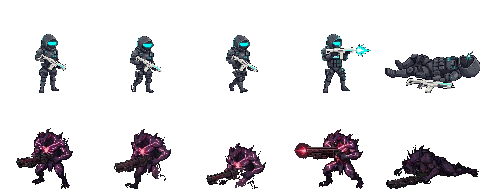
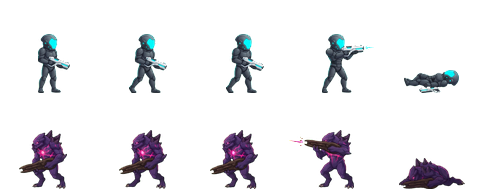
feat(ui): атлас бійців «мальований» — аркуші Gemini, конвертер із плавною альфою (Т.133, ADR-0122)
Claude-Session: https://claude.ai/code/session_01U6iHxe4kxtvZZjgkFx4ynj

diff --git a/src/render.frames.test.ts b/src/render.frames.test.ts
@@ -349,25 +349,25 @@ describe('фідбек власника 2026-10-22: якір дула — тра
   };
 
   it('демон (натив, вліво): старт — дуло фазового різака, лівий край кадру', () => {
-    expect(tracerStart('alien', 5, 3, false)).toEqual([264 - 27, 264 - 9]); // (10,54) → +7, +38
+    expect(tracerStart('alien', 5, 3, false)).toEqual([264 - 31, 264 - 16]); // (4,44) → +3, +31
   });
 
   it('демон (дзеркало, вправо): дуло віддзеркалене до правого краю (x → 96 − x)', () => {
-    expect(tracerStart('alien', 5, 7, true)).toEqual([264 + 27, 264 - 9]); // 86 → +61
+    expect(tracerStart('alien', 5, 7, true)).toEqual([264 + 31, 264 - 16]); // 92 → +65
   });
 
   it('солдат: дуло — правий край кадру fire, на рівні зброї', () => {
-    expect(tracerStart('player', 5, 7, false)).toEqual([264 + 23, 264 - 12]); // (81,50) → +57, +35
+    expect(tracerStart('player', 5, 7, false)).toEqual([264 + 24, 264 - 14]); // (82,47) → +58, +33
   });
 
   it('солдат (дзеркало, вліво): дзеркальне дуло ліворуч', () => {
-    expect(tracerStart('player', 5, 3, true)).toEqual([264 - 23, 264 - 12]); // 15 → +11
+    expect(tracerStart('player', 5, 3, true)).toEqual([264 - 24, 264 - 14]); // 14 → +10
   });
 
   it('muzzlePoint: віддача зсуває дуло назад від погляду', () => {
-    expect(muzzlePoint('player', false, 264, 264, 3)).toEqual({ x: 264 + 23 - 3, y: 264 - 12 });
-    expect(muzzlePoint('alien', false, 264, 264, 3)).toEqual({ x: 264 - 27 + 3, y: 264 - 9 });
-    expect(muzzlePoint('player', true, 264, 264, 3)).toEqual({ x: 264 - 23 + 3, y: 264 - 12 });
+    expect(muzzlePoint('player', false, 264, 264, 3)).toEqual({ x: 264 + 24 - 3, y: 264 - 14 });
+    expect(muzzlePoint('alien', false, 264, 264, 3)).toEqual({ x: 264 - 31 + 3, y: 264 - 16 });
+    expect(muzzlePoint('player', true, 264, 264, 3)).toEqual({ x: 264 - 24 + 3, y: 264 - 14 });
   });
 });
 
@@ -381,7 +381,7 @@ describe('Т.132: спалах дула, віддача, іскри', () => {
     const arcs = early.calls.filter((c) => c.m === 'arc');
     expect(arcs).toHaveLength(2); // ореол і ядро
     // на початку — віддача 3 px: центр спалаху = дуло з віддачею
-    expect((arcs[0]!.args as number[]).slice(0, 2)).toEqual([264 + 23 - 3, 264 - 12]);
+    expect((arcs[0]!.args as number[]).slice(0, 2)).toEqual([264 + 24 - 3, 264 - 14]);
     const late = animCtx();
     drawAnimFrame(late.ctx, a, TRACER_MS * 0.8, 48, 8, 960, 960, { side: 'player', flip: false });
     expect(late.calls.some((c) => c.m === 'arc')).toBe(false);

diff --git a/src/render.ts b/src/render.ts
@@ -177,12 +177,12 @@ export const ATLAS_WALK2_COL = 2;
 // Фідбек власника 2026-10-22 (юніт-атласи Gemini, PR #241): трасер бою стартує з ДУЛА
 // стрільця, а не з центру клітинки. Т.132 (ADR-0121): якір — координати дулового спалаху
 // в просторі кадру 96 × 96 fire у НАТИВНІЙ орієнтації (солдат вправо, демон вліво),
-// виміряні по атласу (солдат — край ціанового спалаху, демон — край яскравого ядра);
+// виміряні по атласу скриптом конвертації (Т.133: `scripts/assets/units-t133-report.json`, поле muzzle);
 // дзеркалення — x → 96 − x. Підказку
 // передає ЛИШЕ бойовище (battle.ts); трасер перехоплення на геосцені — від центру.
 export const MUZZLE_ANCHOR: Readonly<Record<'player' | 'alien', { x: number; y: number }>> = {
-  player: { x: 81, y: 50 }, // дуловий спалах АР-14 «Гарт» — правий край кадру fire
-  alien: { x: 10, y: 54 }, // дуловий спалах фазового різака — лівий край яскравого ядра
+  player: { x: 82, y: 47 }, // дуловий спалах АР-14 «Гарт» — правий край кадру fire (Т.133: новий атлас)
+  alien: { x: 4, y: 44 }, // дуловий спалах фазового різака — лівий край кадру fire (Т.133: новий атлас)
 };
 
 // Точка дула на полі для центру клітинки стрільця (cx, cy); recoil — віддача, px (назад).

diff --git a/scripts/assets/convert_units_t133.py b/scripts/assets/convert_units_t133.py
@@ -1,0 +1,137 @@
+#!/usr/bin/env python3
+# Т.133 (ADR-0122): аркуші Gemini «мальований» стиль -> assets/units-atlas.png 480x192
+# (кадр 96x96, сітка 5x2: idle, walk1, walk2, fire, death; ряд 0 — оперативник, ряд 1 — демон).
+# Сирці — assets-src/t133-soldier-sheet.jpg і assets-src/t133-demon-sheet.jpg (поза git):
+# один ряд із 5 фігур на хромакеї #00FF00, 1376x768, JPEG.
+# Відмінності від convert_units.py (П14.3): фігури не піксель-арт, тому альфа плавна
+# (матування за «зеленістю» g - max(r, b)), зменшення — LANCZOS по премножених каналах,
+# зелений відблиск на краях прибирається (g <= max(r, b)).
+# Геометрія атласа не змінюється (ADR-0121): фігура стоячих кадрів — рядки 34..92,
+# ноги — рядок 92 (ATLAS_FEET_ROW = 93 — перший рядок під ногами), якір x спільний для ряду.
+from pathlib import Path
+import json
+import sys
+
+import numpy as np
+from PIL import Image
+from scipy import ndimage
+
+ROOT = Path(__file__).resolve().parents[2]
+SRC = Path(sys.argv[1]) if len(sys.argv) > 1 else ROOT / 'assets-src'
+OUT = ROOT / 'assets/units-atlas.png'
+REPORT = Path(__file__).resolve().parent / 'units-t133-report.json'
+
+FR = 96
+TOP, BOTTOM = 34, 93  # фігура стоячого кадру: рядки TOP..BOTTOM-1
+BODY_H = BOTTOM - TOP
+MAX_W = 94  # найширший кадр — з полем 1 px з боків
+K0, K1 = 20.0, 90.0  # «зеленість»: <= K0 — фігура, >= K1 — тло
+
+
+def matte(path):
+    rgb = np.asarray(Image.open(path).convert('RGB')).astype(np.float32)
+    r, g, b = rgb[..., 0], rgb[..., 1], rgb[..., 2]
+    green = g - np.maximum(r, b)
+    alpha = np.clip((K1 - green) / (K1 - K0), 0.0, 1.0)
+    g2 = np.minimum(g, np.maximum(r, b))  # без зеленого відблиску
+    out = np.dstack([r, g2, b, alpha * 255.0])
+    return out
+
+
+def split_figures(img, parts=5, grow=9):
+    # Фігури перекриваються по колонках (спалах кадру fire над лежачим), тому ділимо
+    # зв'язними компонентами розширеної маски: гвинтівка поруч із лежачим і спалах
+    # лишаються зі своєю фігурою; дрібне (водяний знак) відпадає.
+    mask = img[..., 3] > 128
+    lbl, n = ndimage.label(ndimage.binary_dilation(mask, iterations=grow))
+    sizes = ndimage.sum(mask, lbl, range(1, n + 1))
+    keep = sorted(np.argsort(sizes)[-parts:] + 1, key=lambda k: ndimage.center_of_mass(lbl == k)[1])
+    if len(keep) != parts:
+        raise SystemExit(f'очікував {parts} фігур, знайшов {len(keep)}')
+    figs = []
+    for k in keep:
+        own = lbl == k
+        ys, xs = np.where(own & mask)
+        fig = img[ys.min() : ys.max() + 1, xs.min() : xs.max() + 1].copy()
+        fig[..., 3] *= own[ys.min() : ys.max() + 1, xs.min() : xs.max() + 1]
+        figs.append(fig)
+    return figs
+
+
+def resize(fig, scale):
+    h, w = fig.shape[:2]
+    nw, nh = max(1, round(w * scale)), max(1, round(h * scale))
+    a = fig[..., 3:4] / 255.0
+    pre = np.dstack([fig[..., :3] * a, fig[..., 3:4]]).clip(0, 255).astype(np.uint8)
+    small = np.asarray(Image.fromarray(pre, 'RGBA').resize((nw, nh), Image.LANCZOS)).astype(np.float32)
+    sa = small[..., 3:4] / 255.0
+    rgb = np.where(sa > 0, small[..., :3] / np.maximum(sa, 1e-6), 0)
+    return np.dstack([rgb, small[..., 3:4]]).clip(0, 255).astype(np.uint8)
+
+
+def feet_x(fig):
+    h = fig.shape[0]
+    band = fig[int(h * 0.85) :, :, 3].astype(np.float32)
+    xs = np.arange(band.shape[1], dtype=np.float32)
+    return float((band.sum(axis=0) * xs).sum() / band.sum())
+
+
+def build_row(path, facing, mirror):
+    img = matte(path)
+    figs = split_figures(img)
+    if mirror:  # аркуш демона Gemini намалював обличчям праворуч усупереч промпту; натив демона — ліворуч
+        figs = [f[:, ::-1].copy() for f in figs]
+    stand, death = figs[:4], figs[4]
+    scale = BODY_H / stand[0].shape[0]  # інваріант — висота idle
+    widest = max(f.shape[1] for f in stand) * scale
+    if widest > MAX_W:
+        scale *= MAX_W / widest
+    small = [resize(f, scale) for f in stand]
+    # спільний якір x: ступні кожного кадру — в одній колонці, найширший кадр у межах 96
+    fx = [feet_x(s) for s in small]
+    lo = max(fx[i] for i in range(4))  # найбільший виступ ліворуч від ступнів
+    hi = max(small[i].shape[1] - fx[i] for i in range(4))
+    anchor = round(min(max(48, lo + 1), FR - 1 - hi)) if lo + hi + 2 <= FR else round(lo + 1)
+    frames, info = [], []
+    for s, f in zip(small, fx):
+        fr = np.zeros((FR, FR, 4), np.uint8)
+        x = int(round(anchor - f))
+        x = min(max(x, 0), FR - s.shape[1])
+        y = BOTTOM - s.shape[0]
+        fr[y : y + s.shape[0], x : x + s.shape[1]] = s
+        frames.append(fr)
+    dscale = min(scale, MAX_W / death.shape[1])
+    d = resize(death, dscale)
+    fr = np.zeros((FR, FR, 4), np.uint8)
+    x = (FR - d.shape[1]) // 2
+    fr[BOTTOM - d.shape[0] : BOTTOM, x : x + d.shape[1]] = d
+    frames.append(fr)
+    for fr in frames:
+        ys, xs = np.where(fr[..., 3] > 128)
+        info.append([int(xs.min()), int(ys.min()), int(xs.max()) + 1, int(ys.max()) + 1])
+    # дуло: край спалаху кадру fire з боку погляду (2 px углиб), y — центр маси крайніх 4 колонок
+    fire = frames[3][..., 3] > 128
+    xs = np.where(fire.any(axis=0))[0]
+    edge = xs.max() if facing > 0 else xs.min()
+    cols = slice(edge - 3, edge + 1) if facing > 0 else slice(edge, edge + 4)
+    ys = np.where(fire[:, cols].any(axis=1))[0]
+    muzzle = {'x': int(edge - 2 * facing), 'y': int(round(ys.mean()))}
+    return frames, {'scale': round(scale, 4), 'deathScale': round(dscale, 4), 'anchorX': anchor, 'bbox': info, 'muzzle': muzzle}
+
+
+def main():
+    atlas = np.zeros((FR * 2, FR * 5, 4), np.uint8)
+    report = {}
+    for row, (name, facing, mirror) in enumerate((('soldier', 1, False), ('demon', -1, True))):
+        frames, info = build_row(SRC / f't133-{name}-sheet.jpg', facing, mirror)
+        for col, fr in enumerate(frames):
+            atlas[row * FR : (row + 1) * FR, col * FR : (col + 1) * FR] = fr
+        report[name] = info
+    atlas[atlas[..., 3] == 0] = 0
+    Image.fromarray(atlas, 'RGBA').save(OUT, optimize=True)
+    REPORT.write_text(json.dumps(report, ensure_ascii=False, indent=1) + '\n')
+    print(json.dumps(report, ensure_ascii=False))
+
+
+if __name__ == '__main__':
+    main()

diff --git a/AGENTS.md b/AGENTS.md
@@ -5,7 +5,7 @@
 **Мова:** Ukrainian (коментарі, помилки, коміти)  
 **Контекст:** проект "Рубіж" — AI-native SDLC
 
-**Оновлення:** Додано чіткий розподіл ролей Vibe Work та Vibe Code (ADR-0042, ADR-0043, ADR-0044, ADR-0045-0048); 2026-11-14 — тег кроку ставить workflow (ADR-0093), PR класу `auto` (ADR-0094), звірка застарілих рядків (Т.36); 2026-11-15 — довідники агентів у `docs/agents/` (ADR-0096), два аудитори PR постійно (ADR-0097), контекст аудитора Mistral (ADR-0098), самоперевірка аудитора окремим файлом (ADR-0099); 2026-11-19 — схему «Vibe Code — виконавець за планом Claude» згорнуто, задачі для Vibe — issue з міткою `vibe` (ADR-0100); 2026-11-20 — режим Issues закрито, Mistral — лише аудитор PR (ADR-0101); проба аудиту через Vibe CLI в CI — workflow `vibe-audit` (ADR-0102); `mistral-audit` — на ключі Vibe (ADR-0103); контрольна точка проби: `mistral-audit` вимкнено, другий аудитор PR — `vibe-audit`, розділи про ролі Vibe Work / Vibe Code переписано під фактичну схему (ADR-0104); відповідь `vibe-audit` без блоку JSON — повтор «лише блок JSON» у тій самій сесії (ADR-0105); 2026-11-21 — `scripts/` під `tsc` і ESLint (ADR-0106); типи Node не видно в `src` — `types: []` у `tsconfig.json` (ADR-0107); 2026-11-22 — lint-staged для `scripts/` і канарка типів Node `src/no-node-types.ts` (ADR-0108); `scripts/**/*.{ts,mjs}` у `format:check` CI (ADR-0109); `e2e/` у `format:check` і lint-staged (ADR-0110); `e2e/` під ESLint — `npm run lint` і lint-staged (ADR-0111); помилка git у `scripts/pr-size.sh` — код 2 замість «0 рядків» і `[OK]` (ADR-0112); кроки `run:` у workflow — під `bash` з `pipefail`: `defaults.run.shell: bash` у кожному workflow (ADR-0113); іконки інтерфейсу — векторні, SVG кодом у `src/ui/icons.ts`, замість піксель-матриць (ADR-0114); вигляд набору інтерфейсу «Сміливіше» — скляні панелі, об'ємні кнопки, бурштинова головна дія, розміри без змін (ADR-0115); 2026-11-23 — стартовий екран «Сміливіше»: логотип без прямокутника, ігрове меню, бурштинова «Нова партія», анімація кільця й іскор лише CSS (тумблер «Анімація», «менше руху») (ADR-0116); «Збереження» — вікно з «Меню» замість вкладки «Система», іконки заголовків панелей і кнопок (ADR-0117); аватари «шолом» у ростері й кільце кольору бійця на полі — колір і форма шолома за id ростера (ADR-0118); смуга загону в бою — картки бійців замість плашки «Юніт», клік і Q вибирають бійця (ADR-0119); меню на ворогові — картка демона з кнопками пострілів і гранати (ADR-0120); поле бою «Сміливіше» — бійці 68 px з тінню, смуга HP під ногами, віддача і спалах дула, іскри влучання, розчинення загиблого, дихання у спокої (ADR-0121)
+**Оновлення:** Додано чіткий розподіл ролей Vibe Work та Vibe Code (ADR-0042, ADR-0043, ADR-0044, ADR-0045-0048); 2026-11-14 — тег кроку ставить workflow (ADR-0093), PR класу `auto` (ADR-0094), звірка застарілих рядків (Т.36); 2026-11-15 — довідники агентів у `docs/agents/` (ADR-0096), два аудитори PR постійно (ADR-0097), контекст аудитора Mistral (ADR-0098), самоперевірка аудитора окремим файлом (ADR-0099); 2026-11-19 — схему «Vibe Code — виконавець за планом Claude» згорнуто, задачі для Vibe — issue з міткою `vibe` (ADR-0100); 2026-11-20 — режим Issues закрито, Mistral — лише аудитор PR (ADR-0101); проба аудиту через Vibe CLI в CI — workflow `vibe-audit` (ADR-0102); `mistral-audit` — на ключі Vibe (ADR-0103); контрольна точка проби: `mistral-audit` вимкнено, другий аудитор PR — `vibe-audit`, розділи про ролі Vibe Work / Vibe Code переписано під фактичну схему (ADR-0104); відповідь `vibe-audit` без блоку JSON — повтор «лише блок JSON» у тій самій сесії (ADR-0105); 2026-11-21 — `scripts/` під `tsc` і ESLint (ADR-0106); типи Node не видно в `src` — `types: []` у `tsconfig.json` (ADR-0107); 2026-11-22 — lint-staged для `scripts/` і канарка типів Node `src/no-node-types.ts` (ADR-0108); `scripts/**/*.{ts,mjs}` у `format:check` CI (ADR-0109); `e2e/` у `format:check` і lint-staged (ADR-0110); `e2e/` під ESLint — `npm run lint` і lint-staged (ADR-0111); помилка git у `scripts/pr-size.sh` — код 2 замість «0 рядків» і `[OK]` (ADR-0112); кроки `run:` у workflow — під `bash` з `pipefail`: `defaults.run.shell: bash` у кожному workflow (ADR-0113); іконки інтерфейсу — векторні, SVG кодом у `src/ui/icons.ts`, замість піксель-матриць (ADR-0114); вигляд набору інтерфейсу «Сміливіше» — скляні панелі, об'ємні кнопки, бурштинова головна дія, розміри без змін (ADR-0115); 2026-11-23 — стартовий екран «Сміливіше»: логотип без прямокутника, ігрове меню, бурштинова «Нова партія», анімація кільця й іскор лише CSS (тумблер «Анімація», «менше руху») (ADR-0116); «Збереження» — вікно з «Меню» замість вкладки «Система», іконки заголовків панелей і кнопок (ADR-0117); аватари «шолом» у ростері й кільце кольору бійця на полі — колір і форма шолома за id ростера (ADR-0118); смуга загону в бою — картки бійців замість плашки «Юніт», клік і Q вибирають бійця (ADR-0119); меню на ворогові — картка демона з кнопками пострілів і гранати (ADR-0120); поле бою «Сміливіше» — бійці 68 px з тінню, смуга HP під ногами, віддача і спалах дула, іскри влучання, розчинення загиблого, дихання у спокої (ADR-0121); атлас бійців «мальований» замість піксель-арту — аркуші Gemini на хромакеї, плавна альфа, геометрія атласа без змін (ADR-0122)
 
 ---
 
@@ -373,6 +373,7 @@ git ls-remote --tags https://github.com/sergkarpenko/rubezh.git iter-X.Y
 | ADR-0119 | Смуга загону в бою (`#bsquad`, `src/ui/squad-strip.ts`): картка на бійця — аватар, ім'я, HP, AP поділками, колір бійця; у сітці бою — стовпчик праворуч від поля замість плашки «Юніт», на телефоні — ряд над полем; клік по картці = тап по бійцю, Q — наступний боєць; вибулий — приглушена картка з підписом (доповнює ADR-0118/0115/0027/0066/0061; Т.130) | accepted | 2026-11-23 |
 | ADR-0120 | Меню на ворогові (`#benemy`, `src/ui/enemy-menu.ts`): тап по видимому демону без зведеного режиму — картка біля нього (HP, шкода й дальність, відстань) з кнопками «Швидкий», «Прицільний», «Черга» (AP і шанс ядра, стріляють одразу) і «Граната» (зводить, зона на демоні); недоступна — вимкнена з причиною; зі зведеним режимом — тап-тап, як раніше; Esc, клік повз, вибір бійця закривають (доповнює ADR-0119/0115/0081/0066/0027/0004/0061; Т.131) | accepted | 2026-11-23 |
 | ADR-0121 | Поле бою й анімація «Сміливіше»: кадр бійця 68 × 68 зі згладжуванням (ноги на місці, фігура в межах клітинки), тінь під ногами, смуга HP під ногами і число в куті клітинки, дужки вибору по кутах клітинки; постріл — дуло кадру, віддача 3 px, спалах дула, іскри влучання; розчинення загиблого смугами; дихання у спокої — новий ambient-цикл під тумблером «Анімація»; розміри DOM без змін (частково Supersedes: ADR-0068 — відображення 44 × 44, рішення П14.4 про смугу HP згори; доповнює ADR-0073 п. 5, ADR-0118/0072/0029/0003/0120/0061; Т.132) | accepted | 2026-11-23 |
+| ADR-0122 | Атлас бійців «мальований» — не піксель-арт: аркуші Gemini (ряд із п'яти поз на хромакеї `#00FF00`), конвертер `scripts/assets/convert_units_t133.py` з плавною альфою; геометрія атласа 480 × 192 і кадр 68 × 68 без змін, якір дула — зі звіту конвертера; як користуватися генераторами Vibe Work і Gemini — `docs/design/style-references.md` (частково Supersedes: ADR-0072 п. 2 і п. 5, ADR-0031/0068 — стиль спрайтів юнітів; доповнює ADR-0121/0118/0071/0069/0064; Т.133) | accepted | 2026-11-23 |
 
 **Нове рішення?** Створювати новий ADR з полем Supersedes.
 

diff --git a/docs/design/style-references.md b/docs/design/style-references.md
@@ -109,3 +109,32 @@ Tileset for a top-down tactical grid, flat pixel art on a dark floor: four varia
 Tileset for a top-down tactical world map, flat pixel art: a dark ocean tile (#0A0A12) with subtle wave pixels, land plate tiles with angular continent plates, a coastline tile with neon cyan (#00E5FF) glow, small amber (#FFB347) city lights dots, and a radar tower sprite with a cyan blinking beacon. Seamless tiling, limited palette, crisp pixel edges, no text, no watermark.
 
 **Примітка (П14.7).** Фон стартового екрана — два кандидати: генерація за промптом 3 (вище, трек оформлення) або суцільний неон кодом; вибір — за прев’ю разом із композицією редизайну.
+
+## Т.133 — атлас бійців «мальований»: як користуватися генераторами (ADR-0122)
+
+Перевірено 23.11.2026 сесією Claude у Chrome власника. Числа лімітів і поведінка інтерфейсів змінюються — перед серією генерацій зробити одну пробу.
+
+**Що вміє кожен генератор**
+
+| | Gemini (університетський акаунт, «Створити зображення») | Vibe Work (Flux, вбудований генератор) |
+| --- | --- | --- |
+| Аркуш із 5 поз одним зображенням | так: один персонаж, рівний масштаб, чисте тло | ні: 4 фігури з 5, бліде зелене тло |
+| Одна поза на зображення | так | так, якість добра |
+| Правка попереднього зображення | в тому самому чаті відмовив («tool call limit») | так: «Edit the previous image: …» тримає персонажа, масштаб і місце |
+| Формат | 16:9 слухає; файл — JPEG 1376 × 768 | просили 16:9 і 1:1 — дав 4:3 (прев'ю 800 × 600) |
+| Прозоре тло | ні — хромакей | ні — хромакей |
+| Ліміт | у інтерфейсі не показано | за словами власника — близько 40 генерацій на добу |
+
+**Порядок у Gemini (спрацював тричі з трьох):** новий чат → «+» → «Створити зображення» → модель швидка («4 Hydrogen», не «Thinking») → надіслати повний промпт. Перша відповідь — текст («I cannot generate…» і «оптимізований промпт»); другим повідомленням: `Generate this image now with your image generation tool (Nano Banana), using exactly the optimized prompt above. Output the picture, not text. Aspect ratio 16:9.` — картинка за ≈ 30 с. Один чат — одне зображення: на аркуш демона — новий чат. Не клацати по плитках стилів над полем вводу (стиль чіпляється до запиту). Запит одним повідомленням («Generate an image… use the image generation tool») двічі завис на 3–4 хв і закінчився відмовою; з моделлю «Thinking» перша відповідь ішла ≈ 4 хв. У промптах нижче слова м'якші («knocked-out pose», «action pose», «energy blaster» замість «dead», «firing», «rifle») — чи впливає це на відмови, окремо не перевірено.
+
+**Порядок у Vibe Work:** чат поза проєктом (інструкції проєкту генерації не потрібні); `Generate a NEW image (not an edit), with this prompt as is: …` — одна поза «стій»; далі в тому самому чаті `Edit the previous image: the same character with exactly the same design, colours, size and position in the image, same green background, but …` — по одній позі на правку (5 генерацій на бійця).
+
+**Правила промпту (спільні):** одна фігура чи один ряд — без сітки з кількох рядів; `flat solid pure chroma green #00FF00`, окремо «no floor, no ground line, no shadows, no text»; «No green on the character»; явний напрямок погляду і «identical scale, feet on the same baseline»; перелік кадрів зліва направо; «holds the SAME weapon in ALL frames» (у першій пробі Gemini загубив зброю в кадрі кроку); розмір на полі («optimized for small 60px in-game display») — щоб форми були великі. Напрямок погляду генератор може проігнорувати (демона намалював праворуч) — дзеркалить конвертер.
+
+**Промпт аркуша оперативника (Gemini):**
+2D game character sprite sheet, aspect ratio 16:9: exactly 5 separate full-body poses of the exact same character in a single horizontal row, evenly spaced, wide empty gaps between figures. Character: a futuristic sci-fi operative in an armored suit, slightly stocky heroic proportions (3.5 heads tall), bold readable silhouette, large simple shapes optimized for small 60px in-game display. Matte dark gunmetal armor, a rounded hood-like helmet with a glowing neon cyan (#00E5FF) visor, small cyan indicator lights, and a sleek white sci-fi energy blaster with cyan accents. Art style: modern high-resolution 2D digital painting with crisp cel-shaded shapes, clean smooth edges, soft even lighting from the top-left, subtle cyan rim light; strictly NOT pixel art. Side view with a slight three-quarter turn, facing RIGHT in all 5 frames, identical scale, feet on the same baseline. Frames left to right: 1) idle stance, blaster held low across the body; 2) walking, left leg forward, blaster held low across the body; 3) walking, right leg forward, blaster held low across the body; 4) action pose, blaster raised to the shoulder, horizontal, pointing right, short cyan energy flash at the tip; 5) knocked-out pose: lying flat on the back on the ground, head to the right, blaster lying beside him. The character holds the SAME white blaster in ALL frames, including both walking frames. Background: flat solid pure chroma green #00FF00, perfectly uniform edge to edge. No floor, no ground line, no shadows under the feet or under the lying body, no gradients, no borders, no dividing lines, no text, no numbers. No green on the character.
+
+**Промпт аркуша демона (Gemini):**
+2D game character sprite sheet, aspect ratio 16:9: exactly 5 separate full-body poses of the exact same creature in a single horizontal row, evenly spaced, wide empty gaps between figures. Creature: an alien rift monster for a sci-fi tactical game, hunched and bulky, about as tall as a human, dark purple (#5A2A8A) rocky hide with jagged spikes on the back and shoulders, glowing hot magenta-pink (#FF2E88) energy cracks across the chest and a glowing pink core, two glowing pink eyes, clawed feet; it carries a long heavy dark-brown organic energy cannon in both hands. Bold readable silhouette, large simple shapes optimized for small 60px in-game display. Art style: modern high-resolution 2D digital painting with crisp cel-shaded shapes, clean smooth edges, soft even lighting from the top-left, subtle magenta rim light; strictly NOT pixel art. Side view with a slight three-quarter turn, facing LEFT in all 5 frames, identical scale, feet on the same baseline. Frames left to right: 1) idle stance, cannon held low pointing left; 2) walking, left leg forward, cannon held low; 3) walking, right leg forward, cannon held low; 4) action pose, cannon raised horizontal, pointing left, short magenta energy flash at the tip; 5) knocked-out pose: collapsed flat on the ground on its belly, head to the left, cannon lying beside it, glow dimmed. The creature has the SAME cannon in ALL frames. Background: flat solid pure chroma green #00FF00, perfectly uniform edge to edge. No floor, no ground line, no shadows under the feet or under the lying body, no gradients, no borders, no dividing lines, no text, no numbers. No green on the creature.
+
+**Від зображення до атласа:** «Завантажити» в Gemini (файл `Gemini_Generated_Image_*.jpeg` у теці завантажень) → `assets-src/t133-soldier-sheet.jpg`, `t133-demon-sheet.jpg` → `python3 scripts/assets/convert_units_t133.py [тека сирців]` → `assets/units-atlas.png` і звіт `scripts/assets/units-t133-report.json` (рамки кадрів, масштаб, якір дула для `MUZZLE_ANCHOR`).

diff --git a/docs/adr/0122-painted-unit-atlas.md b/docs/adr/0122-painted-unit-atlas.md
@@ -1,0 +1,36 @@
+# 0122. Атлас бійців «мальований» — не піксель-арт: аркуші Gemini на хромакеї, плавна альфа, геометрія атласа без змін
+
+- Статус: accepted (мерж PR власником = «схвалюю» — конвенція ADR-0052)
+- Дата: 2026-11-23
+- Частково Supersedes: ADR-0072 п. 2 (стиль спрайтів юнітів — «плоский піксель-арт») і п. 5 (робочий цикл «генерація у Work-сесії → бінарний коміт Vibe Code»); ADR-0031 і ADR-0068 — у частині стилю спрайтів юнітів
+- Доповнює: ADR-0121 (кадр 68 × 68 зі згладжуванням, ноги на місці), ADR-0118 (кільце кольору бійця), ADR-0071 (формат ассета), ADR-0069 (розмір ассетів), ADR-0064 (палітра), ADR-0061 (розмір PR)
+- Автор: Claude Code (Т.133; рішення власника кнопками — дослівно в записі Т.133 у `docs/workflow.md`)
+
+## Контекст
+
+- Серія «Сучасніша графіка», частина 5 «Нові малюнки бійців» (вибір власника на фініші Т.132). Після ADR-0121 кадр 96 × 96 малюється 68 × 68 зі згладжуванням — піксель-арт, розрахований на ціле збільшення, розмивається.
+- Власник дозволив сесії самій користуватися генераторами в його Chrome: Vibe Work (Flux, близько 40 генерацій на добу) і Gemini з університетського акаунта. Проби показали: Gemini дає ряд із п'яти поз одного персонажа одним зображенням; Vibe Work аркуш не тримає (4 фігури з 5, бліде тло), але добре робить одну позу і правку попереднього зображення.
+- Аркуш «зараз / варіанти» (`t133-styles.png`): чинний піксель-арт, «мальований» (Gemini й Vibe Work), «напівреалістичний», «детальний піксель-арт» — усі в розмірі поля.
+
+## Рішення
+
+1. Стиль спрайтів юнітів бою — «мальований»: чисті форми з cel-shading, кремезні пропорції (≈ 3,5 голови), великі прості форми під розмір ≈ 42 px на полі. Вибір власника: «1–2. Мальований».
+2. Джерело — аркуші Gemini (вибір власника «Gemini — аркуш»): по одному зображенню 16:9 на бійця, ряд із п'яти поз (стій, крок 1, крок 2, вогонь, вибув) на хромакеї `#00FF00`. Сирці — поза git (`assets-src/t133-soldier-sheet.jpg`, `t133-demon-sheet.jpg`).
+3. Конвертація — `scripts/assets/convert_units_t133.py`: матування за «зеленістю» (`g − max(r, b)`), прибирання зеленого відблиску, поділ на фігури зв'язними компонентами, зменшення LANCZOS по премножених каналах, **альфа плавна** (було — бінарна). Звіт — `scripts/assets/units-t133-report.json`.
+4. Геометрія атласа не змінюється: `assets/units-atlas.png` 480 × 192, кадри 96 × 96, 5 × 2; фігура стоячих кадрів — рядки 34–92, ноги — над `ATLAS_FEET_ROW`; натив: солдат праворуч, демон ліворуч (ряд демона конвертер дзеркалить — Gemini намалював його праворуч усупереч промпту). `UNIT_DRAW`, `unitFrameOrigin`, кільце, смуга HP, розміри DOM — без змін.
+5. Якір дула `MUZZLE_ANCHOR` — зі звіту конвертера: солдат (82, 47), демон (4, 44) (було (81, 50) і (10, 54)).
+6. Фолбек-матриці `sprites.ts` (ADR-0072 п. 3) лишаються; тести від файла атласа не залежать.
+7. Як користуватися генераторами (порядок запитів, пастки, промпти) — `docs/design/style-references.md`, розділ «Т.133».
+
+## Наслідки
+
+- Бійці читаються після згладжування; правила, ядро, сейв — без змін.
+- Ціна: стиль бійців (мальований) тепер відрізняється від піксельних тайлів терену й декору — якщо різниця заважатиме, терен перемальовується окремим кроком.
+- Повторити генерацію «піксель у піксель» не можна (генератор не детермінований) — відтворюється лише конвертація із сирців.
+- Сирці — JPEG: край фігури має легкий ореол стиснення; на темній підлозі не видно.
+
+## Альтернативи
+
+- Vibe Work, по одній позі з правками (5 генерацій на бійця) — працює і дає більші кадри; відхилено власником на користь одного аркуша Gemini (менше генерацій, пози з одного малюнка).
+- «Напівреалістичний» (7 голів) — фігура на полі вузька, деталі зливаються; «детальний піксель-арт» — розмивається згладжуванням; «лишити як є» — відхилено власником.
+- Атлас 2× (кадри 192) — канва поля 960 × 960 без множника щільності, виграшу немає; відкладено.

diff --git a/docs/agents/ui.md b/docs/agents/ui.md
@@ -28,6 +28,7 @@
 - **Картка поверх поля (меню на ворогові) — міряти на малих полях і гейтити кількома вікнами** (Т.131, факти — у записі Т.131): на 1440 × 900 перша версія картки (208 × 270 px) вміщалась праворуч, а на 1100 × 540 (поле 330 px) і 390 × 844 (342 px) притискалась до краю і накривала самого демона — тап по ньому перехоплювала картка; знайшов прогін вимірів із `setViewportSize` у кроці сценарію. Гейт `expectEnemyMenu` міряє 1440 × 900, 1100 × 540 і 390 × 844 одного демона сіду — це не гарантія для всіх клітинок: аудитор перебором 400 клітинок знайшов 16 у центрі поля 330 px, де картка накривала демона (виправлено компактною карткою, перебір — тестом функції місця). Місце картки біля довільної клітинки перевіряти перебором усіх клітинок поля, а не гейтом. Слухач `resize` гейт не ловить: ambient перемальовує бій щокадру.
 - **Тап у e2e одразу після пострілу потрапляє в анімацію** (Т.131): клік Playwright після кліку, що запустив постріл, — ще під час трасера; дія, яку анімація ховає, має «доганяти» після неї (меню на ворогові запам'ятовує демона і з'являється, щойно черга порожня), інакше гейт залежить від швидкості машини.
 - **Варіанти малювання канви — окремою сторінкою-стендом під `npx vite`** (Т.132): тека `proto/` у клоні (не комітити) з `index.html` і модулем, що імпортує `src/render.ts` (атлас, терен, `drawUnitSprite`) і малює варіанти на канві 960 за `window.draw(v)`; знімок вирізки — Playwright. Без збірки й без стану бою в сценарії; кадри анімації — `window.fx(t)` і `ffmpeg` у відео. Числа прототипу потім переносяться в код гілки.
+- **Згенеровані малюнки (Т.133):** генератори Vibe Work і Gemini сесія веде сама в Chrome власника; порядок запитів, пастки і промпти — `docs/design/style-references.md`, розділ «Т.133». Аркуш «зараз / варіанти» — з проб у розмірі поля (вирізки знімків екрана досить для вибору стилю); остаточні файли — кнопкою «Завантажити» в генераторі, далі доступ до теки завантажень власника і копія в сесію. Новий атлас — у чинну геометрію (кадр 96, фігура в рядках 34–92): тоді код не міняється, лише `MUZZLE_ANCHOR` зі звіту конвертера і числа дула в `render.frames.test.ts` та `ui/battle.test.ts`.
 - **Градієнтів (`createRadialGradient`) на канві уникати** (Т.132): мок-контексти тестів (`Proxy`) повертають `undefined` і `addColorStop` падає — тінь і спалах малювати напівпрозорими еліпсами й колами.
 - **Поломку нового гейта e2e перевіряти сценарієм гілки проти збірки `main`** (Т.132): прев'ю `main` на 4175 і `E2E_URL=http://localhost:4175/rubezh/` — без правки й перезбирання файлів гілки.
 - **Числа й тексти на ескізі брати зі сторінки або з констант ядра** (`title` плитки, `RIFLE.modes`), не вписувати руками (Т.33).
